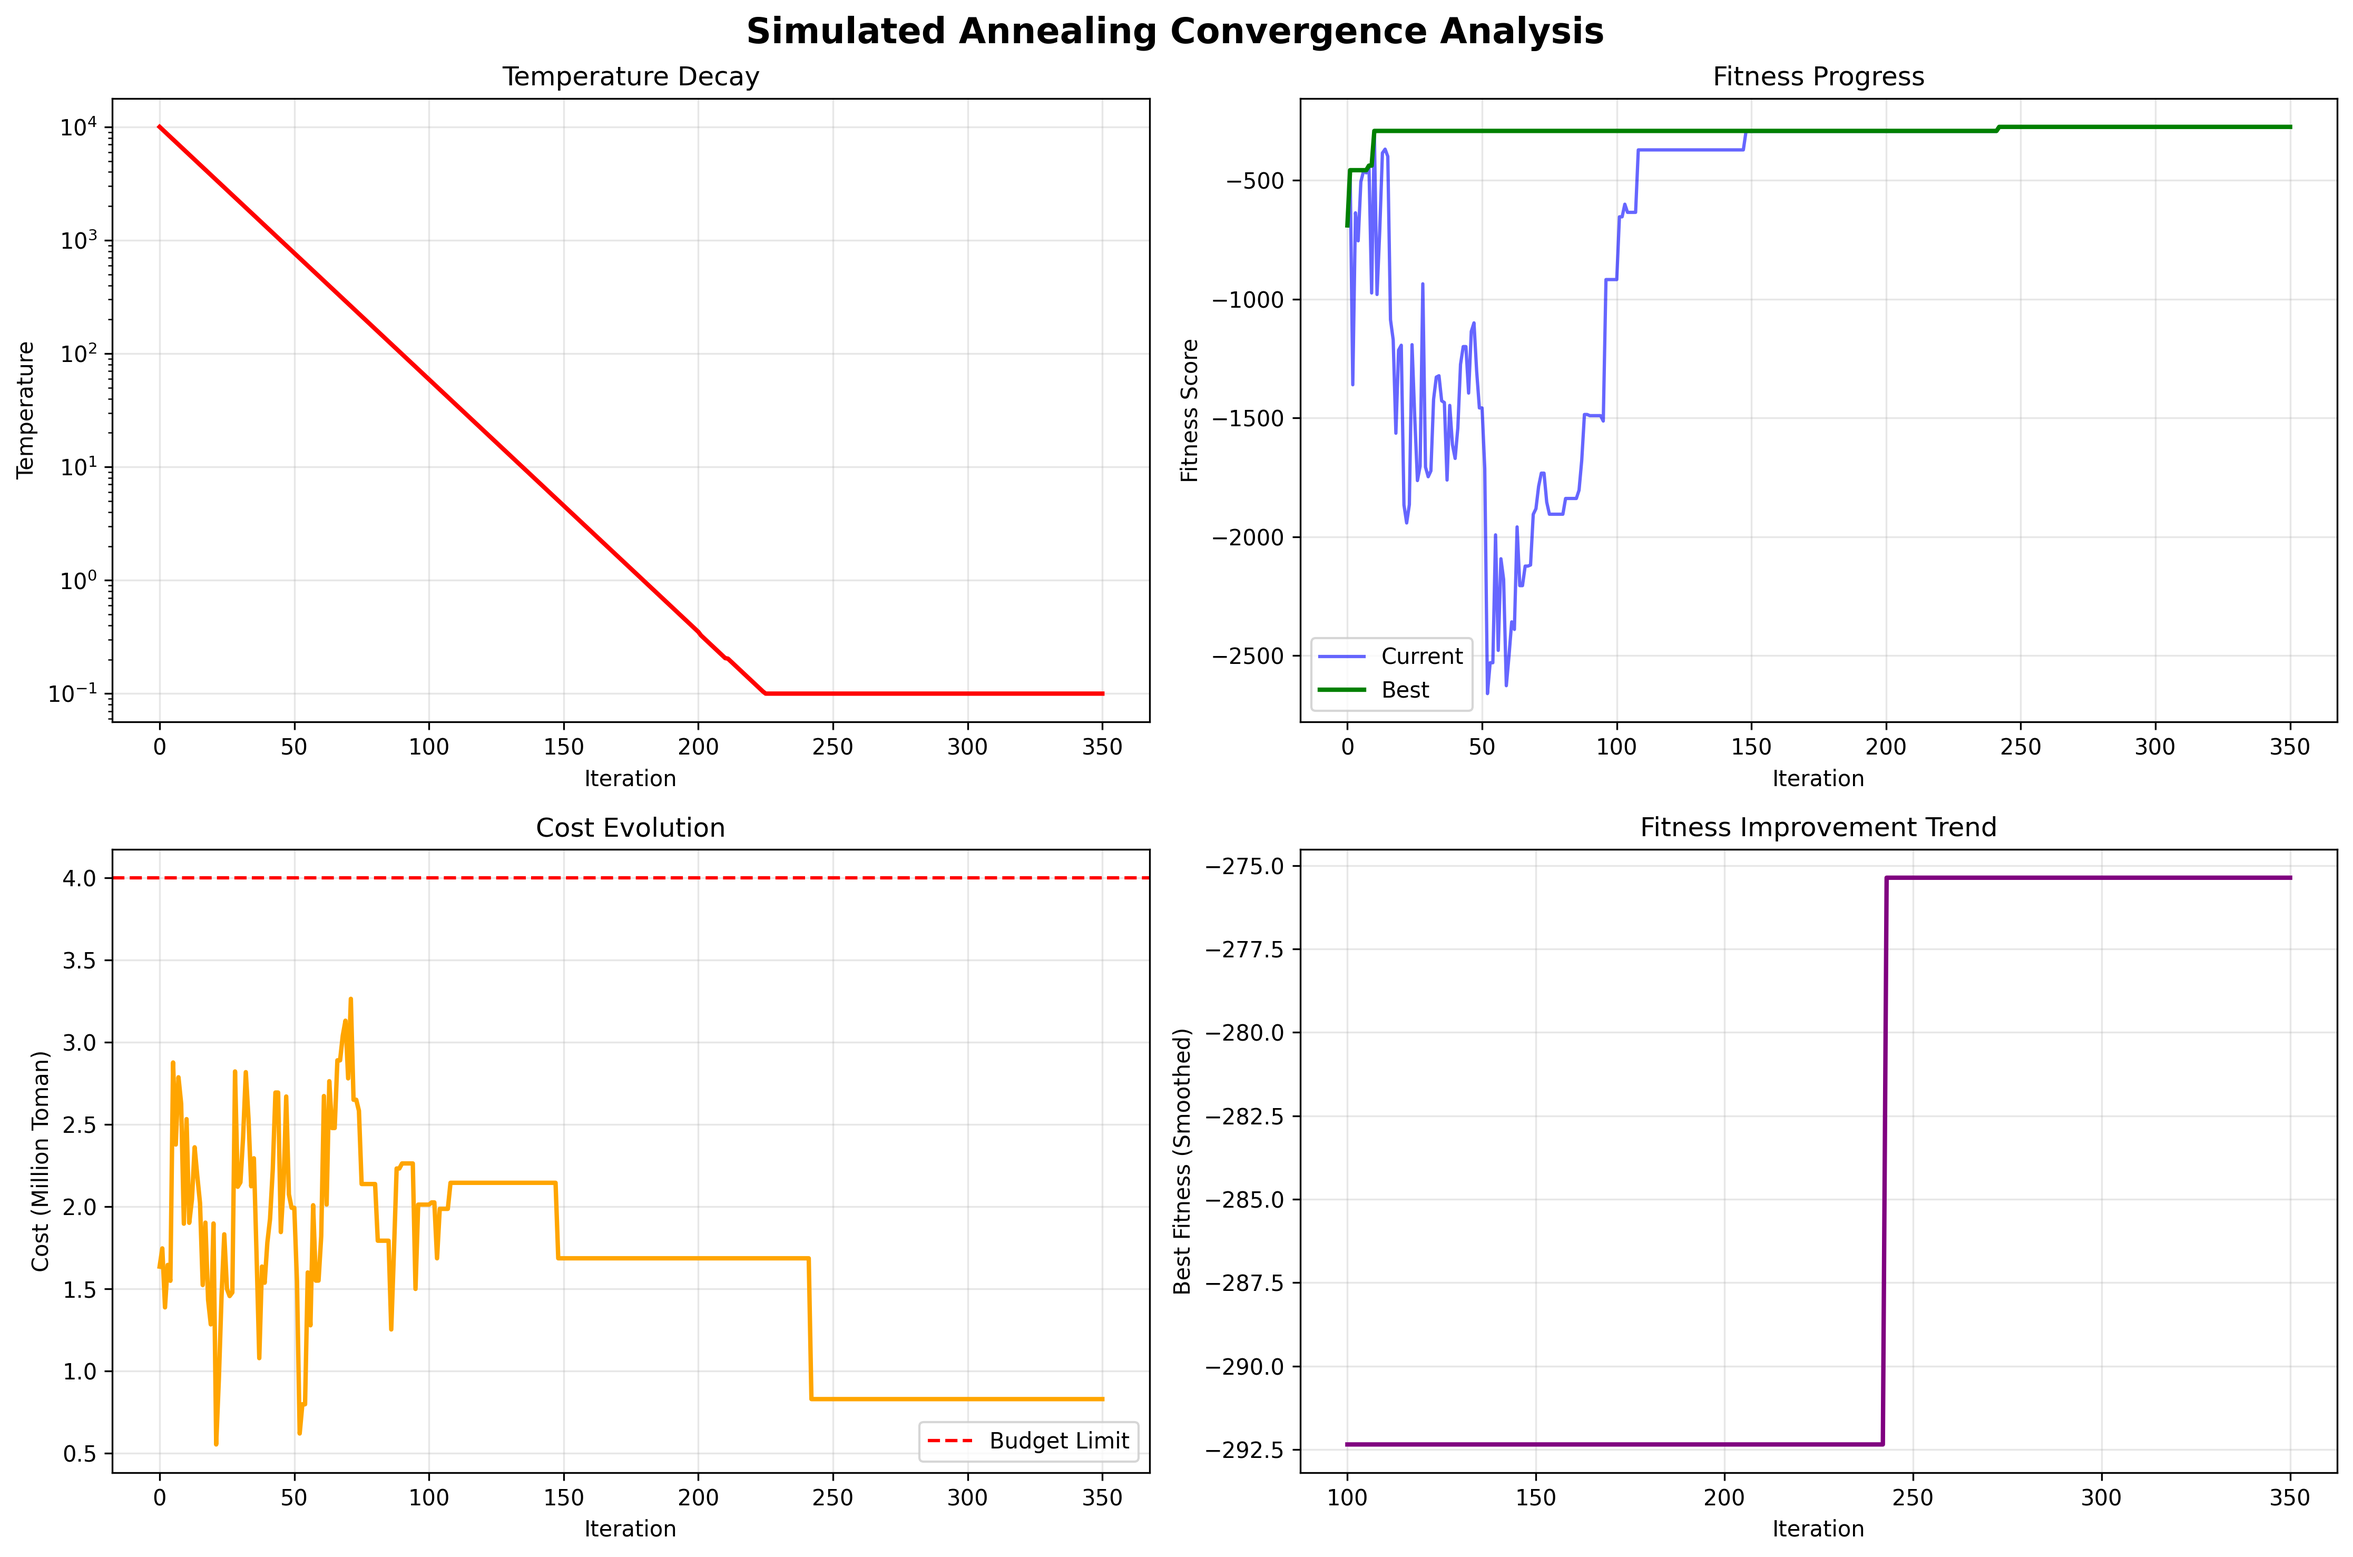
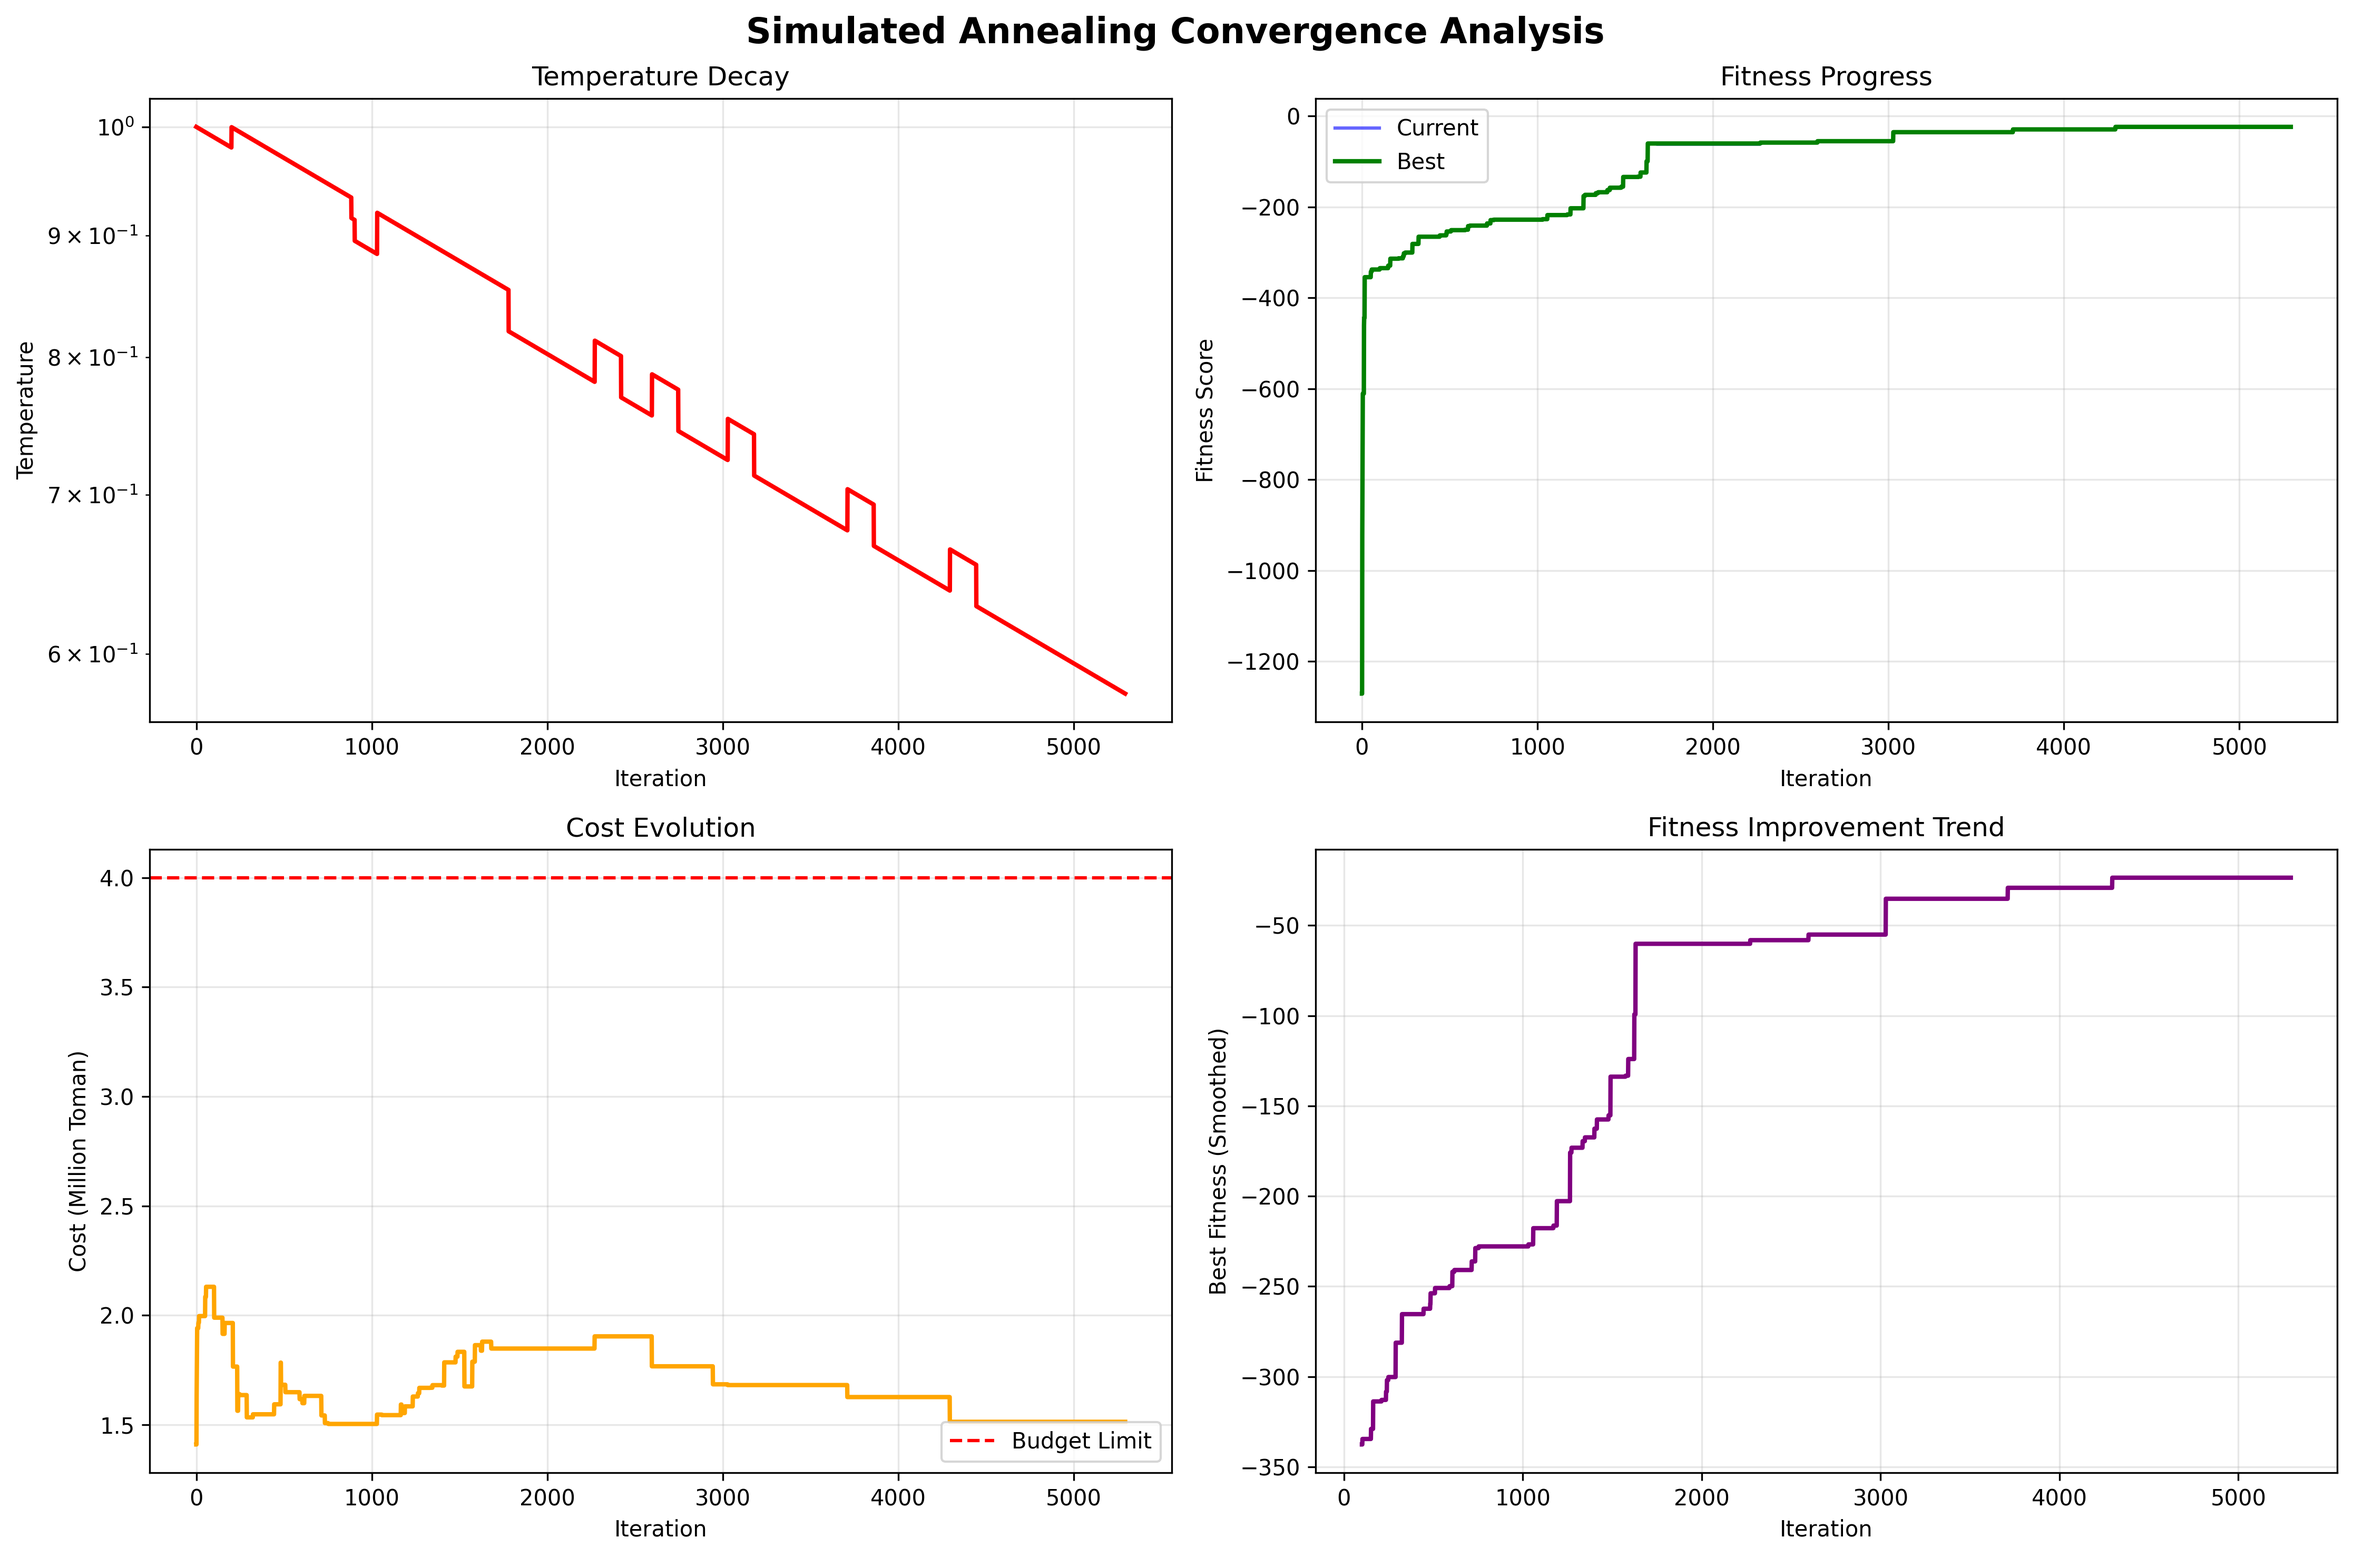
testing

diff --git a/diet_sa/simulated_annealing.py b/diet_sa/simulated_annealing.py
@@ -123,25 +123,25 @@ class SimulatedAnnealing:
         Check multiple stopping conditions and return whether to stop and why.
         """
         # Don't stop too early - allow at least 350 iterations
-        if iteration < 350:
+        if iteration < 1000:
             return False, ""
         
         # 1. Temperature-based stopping
-        if temperature < self.final_temp * 1.5:
+        if temperature < self.final_temp:
             return True, f"Temperature too low ({temperature:.6f})"
         
-        # 2. Very low acceptance rate for extended period
-        if iteration > 2000 and acceptance_rate < 1.0 and consecutive_no_accept > 500:
-            return True, f"Very low acceptance rate ({acceptance_rate:.1f}%) for {consecutive_no_accept} iterations"
+        # # 2. Very low acceptance rate for extended period
+        # if iteration > 2000 and acceptance_rate < 1.0 and consecutive_no_accept > 500:
+        #     return True, f"Very low acceptance rate ({acceptance_rate:.1f}%) for {consecutive_no_accept} iterations"
         
-        # 3. Long stagnation without improvement
-        iterations_since_improvement = iteration - last_improvement_iteration
-        if iterations_since_improvement > 3000 and iteration > 3000:
-            return True, f"No improvement for {iterations_since_improvement} iterations"
+        # # 3. Long stagnation without improvement
+        # iterations_since_improvement = iteration - last_improvement_iteration
+        # if iterations_since_improvement > 3000 and iteration > 3000:
+        #     return True, f"No improvement for {iterations_since_improvement} iterations"
         
-        # 4. Excessive stagnation counter
-        if stagnation_counter > 5000 and iteration > 5000:
-            return True, f"Excessive stagnation ({stagnation_counter} iterations)"
+        # # 4. Excessive stagnation counter
+        # if stagnation_counter > 5000 and iteration > 5000:
+        #     return True, f"Excessive stagnation ({stagnation_counter} iterations)"
         
         # 5. Convergence detection - check if best fitness is stable
         if len(self.best_fitness_history) > 2000 and iteration > 2000:
@@ -152,12 +152,12 @@ class SimulatedAnnealing:
             if fitness_variance < 0.01:  # Very small variance in fitness
                 return True, f"Converged - fitness variance: {fitness_variance:.6f}"
         
-        # 6. Check if we've reached a good enough solution
-        if self.best_fitness_history and iteration > 2000:
-            current_best = max(self.best_fitness_history)
-            # If fitness is positive and high, we might have found a good solution
-            if current_best > 100 and iterations_since_improvement > 2000:
-                return True, f"Good solution found (fitness: {current_best:.2f}) with no recent improvement"
+        # # 6. Check if we've reached a good enough solution
+        # if self.best_fitness_history and iteration > 2000:
+        #     current_best = max(self.best_fitness_history)
+        #     # If fitness is positive and high, we might have found a good solution
+        #     if current_best > 100 and iterations_since_improvement > 2000:
+        #         return True, f"Good solution found (fitness: {current_best:.2f}) with no recent improvement"
         
         return False, ""
 

diff --git a/main.py b/main.py
@@ -318,15 +318,15 @@ Algorithm Information:
     
     # SA arguments
     sa_group = parser.add_argument_group('Simulated Annealing Options')
-    sa_group.add_argument('--iterations', type=int, default=800,
+    sa_group.add_argument('--iterations', type=int, default=1000000,
                          help='Maximum iterations for SA')
-    sa_group.add_argument('--temp', type=float, default=10000.0,
+    sa_group.add_argument('--temp', type=float, default=1.0,
                          help='Initial temperature for SA')
-    sa_group.add_argument('--final-temp', type=float, default=0.1,
+    sa_group.add_argument('--final-temp', type=float, default=0.00000000001,
                          help='Final temperature for SA')
-    sa_group.add_argument('--cooling', type=float, default=0.95,
+    sa_group.add_argument('--cooling', type=float, default=0.9999,
                          help='Cooling rate for SA')
-    sa_group.add_argument('--step-size', type=float, default=3,
+    sa_group.add_argument('--step-size', type=float, default=1,
                          help='Step size for SA (kg)')
     
     args = parser.parse_args()
